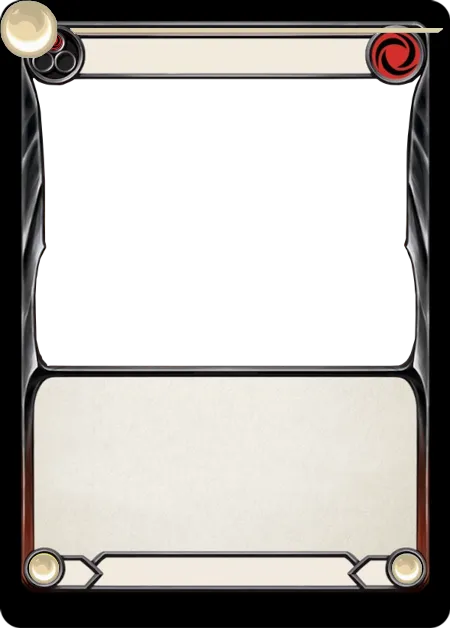
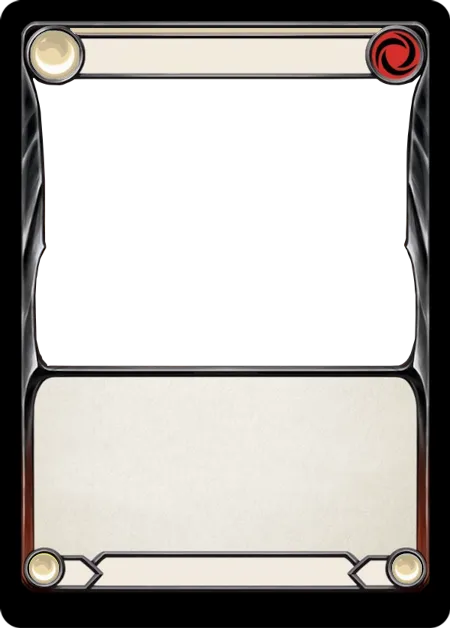
img_template [refactor]: refactor and fix the non_symbol function

Changed region(s): [[0.0, 0.0, 0.1867, 0.1513], [0.84, 0.0303, 0.9956, 0.0605]]

diff --git a/src/transformers/img_template.py b/src/transformers/img_template.py
@@ -15,12 +15,13 @@ class ImageTransform:
         self._blue_pitch_position = (0, 0)
         self._yellow_pitch_position = (0, 0)
         self._red_pitch_position = (0, 0)
+        self._pitch_position = (0, 0)
         self._color_bar_position = (0, 0)
 
         # images
         ASSETS_DIR = Path(__file__).parent / "assets"
-        self.__non_symbol = Image.open(ASSETS_DIR / "NonSymbol.png").convert("RGBA")
-        self.__non_color_bar = Image.open(ASSETS_DIR / "pitch/NonColorBar.png").convert("RGBA")
+        self.__non_symbol = Image.open(ASSETS_DIR / "NonSymbol.png").convert("RGBA").resize((50, 50))
+        self.__non_color_bar = Image.open(ASSETS_DIR / "pitch/NonColorBar.png").convert("RGBA").resize((312, 6))
         self.__cost_img = Image.open(ASSETS_DIR / "CostSymbol.png").convert("RGBA")
         self.__pitch_img = self.__cost_img.copy().resize((17, 17))
         self.__power_img = Image.open(ASSETS_DIR / "PowerSymbol.png").convert("RGBA")
@@ -146,19 +147,21 @@ class ImageTransform:
         """
         if position[0] < 0 or position[1] < 0:
             raise ValueError("Position must be non-negative.")
+        
+        image_to_paste = self.__non_color_bar if position == self._color_bar_position else self.__non_symbol
+        if position == self._power_position or position == self._defend_position:
+            image_to_paste = image_to_paste.resize((30, 30))
         self.result_image.paste(
-            self.__non_symbol, (position[0], position[1]), self.__non_symbol
+            image_to_paste, (position[0], position[1]), image_to_paste
         )
-        if position == self._pitch_position:
-            self.result_image.paste(
-                self.__non_color_bar,
-                (self._color_bar_position[0], self._color_bar_position[1]),
-                self.__non_color_bar,
-            )
 
     def auto_replace_and_save(self) -> None:
         for pitch in range(3):
             self.result_image = self._original_image.copy()
             self.replace_pitch(pitch)
             self.replace_bar(pitch)
+        self.replace_non_symbol(self._defend_position)
+        self.replace_non_symbol(self._power_position)
+        self.replace_non_symbol(self._cost_position)
+        self.replace_non_symbol(self._color_bar_position)
         self.save_image()
